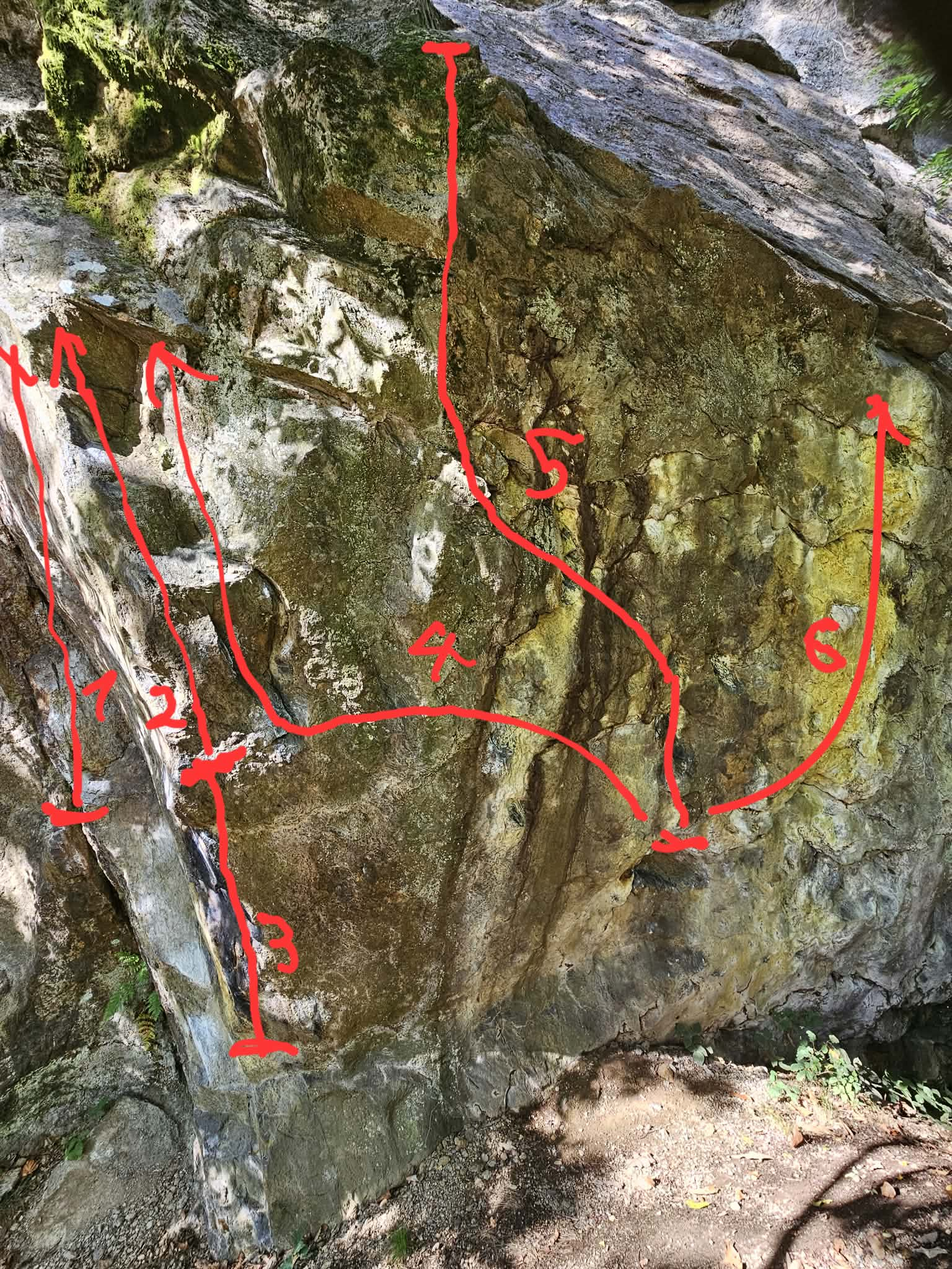
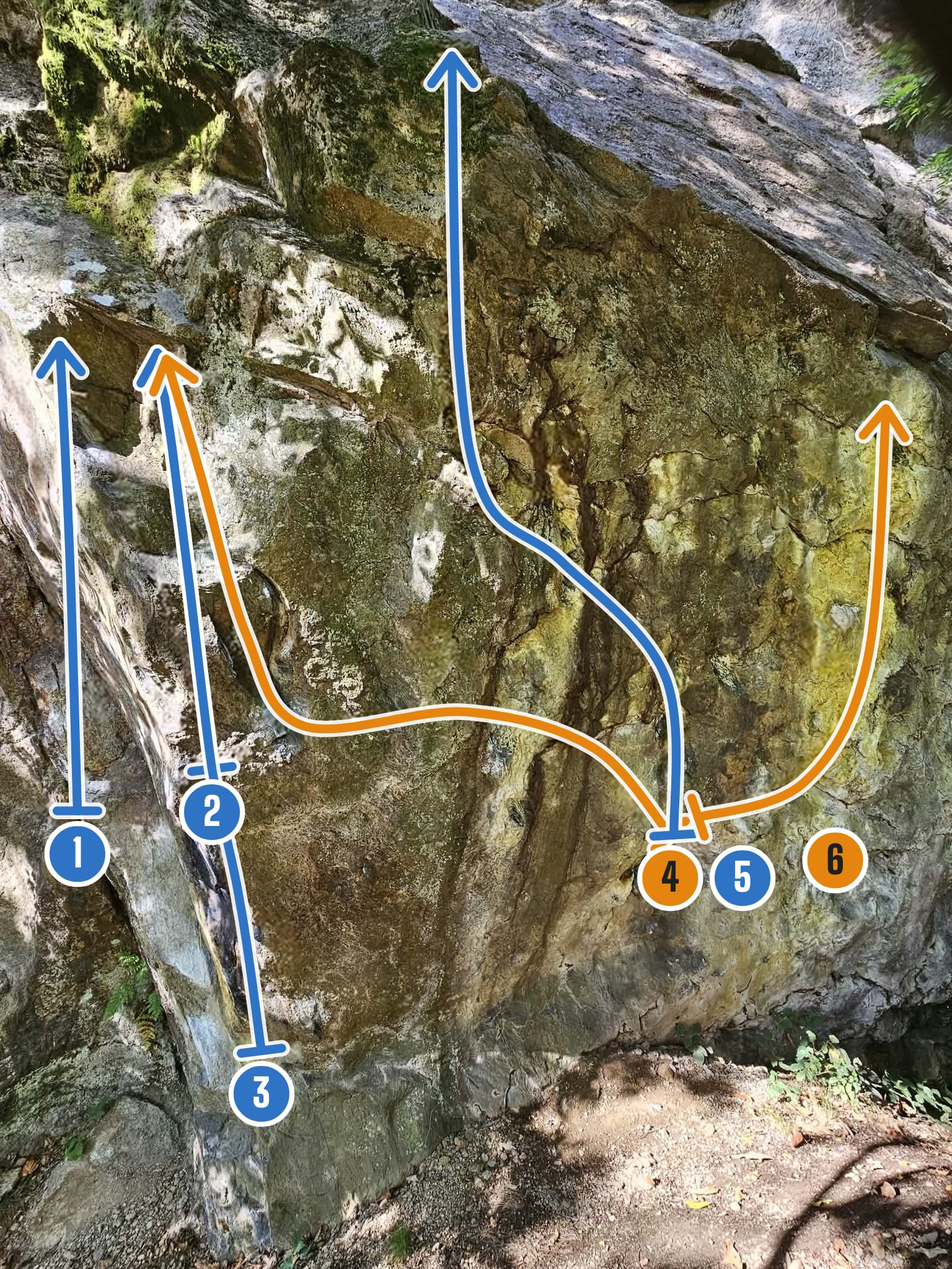
site: zalog card redesigned guide

Changed region(s): [[0.125, 0.0312, 0.9688, 0.9062], [0.0, 0.25, 0.125, 0.7188], [0.8438, 0.6562, 0.9375, 0.7188]]

diff --git a/src/data/content.ts b/src/data/content.ts
@@ -139,12 +139,14 @@ export const projects: Project[] = [
     color: '#3ec9a7',
     visual: 'topo',
     description:
-      'A guide to the boulders at Zalog: photos with the lines drawn on, and a grade and notes for each problem. One visit saves it for offline use, and every wall can be saved as an image.',
+      "A guide to the boulders at Zalog: every wall's lines drawn over the photo, coloured by grade, with filters and a ticklist that stays on the phone. One visit saves it for offline use, and it installs as an app. Shipped like this site: own Helm chart, deployed by Argo CD.",
     tech: [
       { label: 'Astro', icon: 'astro' },
       { label: 'TypeScript', icon: 'typescript' },
       { label: 'sharp', icon: 'sharp' },
       { label: 'Satori', icon: null },
+      { label: 'Helm', icon: 'helm' },
+      { label: 'Argo CD', icon: 'argo' },
     ],
     links: [
       { label: 'zalog.alters.si ↗', href: 'https://zalog.alters.si' },
@@ -217,7 +219,7 @@ export const homeServer = {
 // The wall shown on the zalog card, copied from the guide.
 export const zalogTopo = {
   wall: 'Karma',
-  alt: 'The Karma boulder at Zalog with the problem lines drawn on in red',
+  alt: 'The Karma boulder at Zalog with the problem lines drawn on, coloured by grade',
   problems: [
     { num: '1', name: 'Cookie?', grade: '7a' },
     { num: '5', name: 'Sekalica', grade: '7b' },
